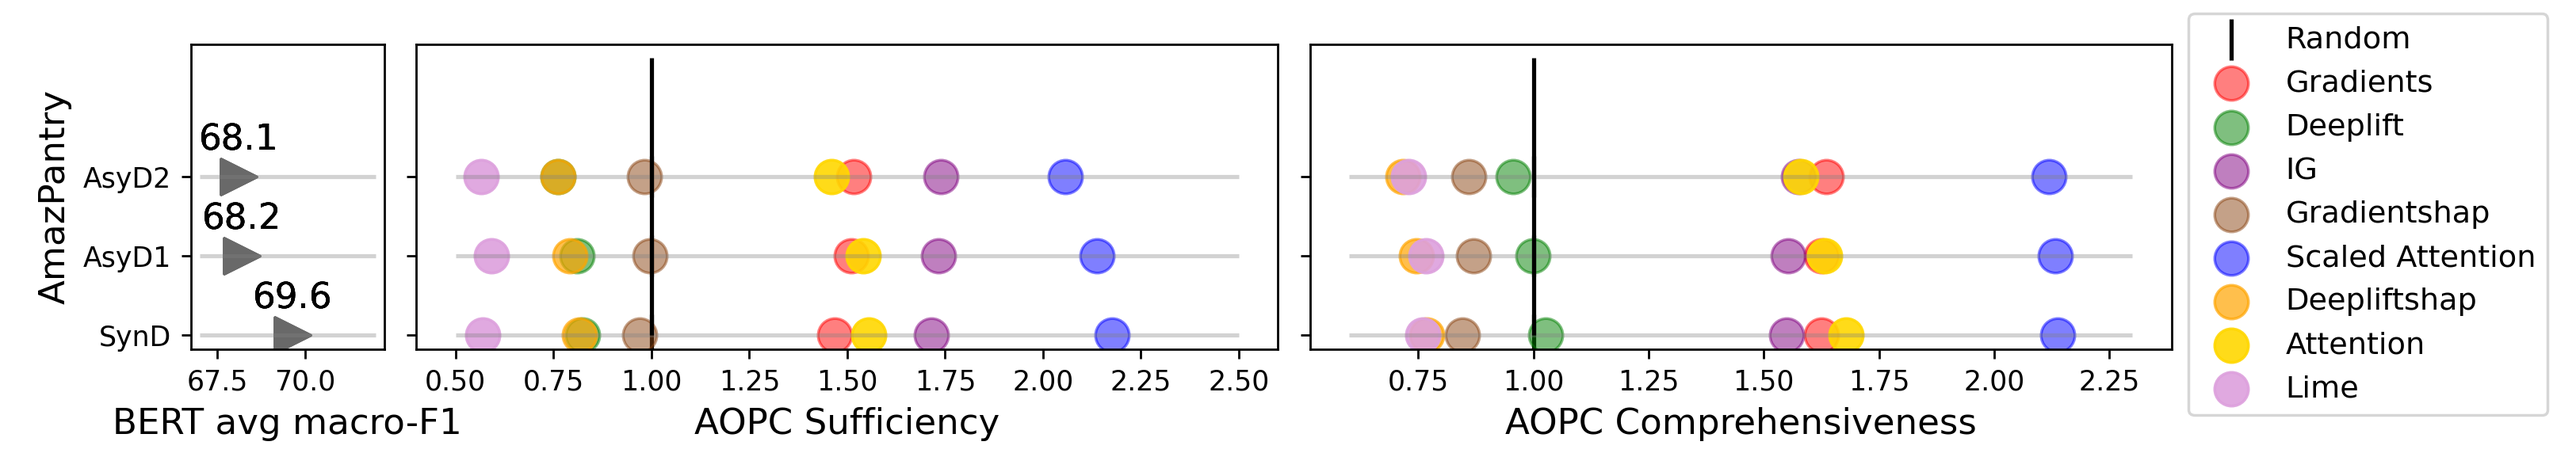
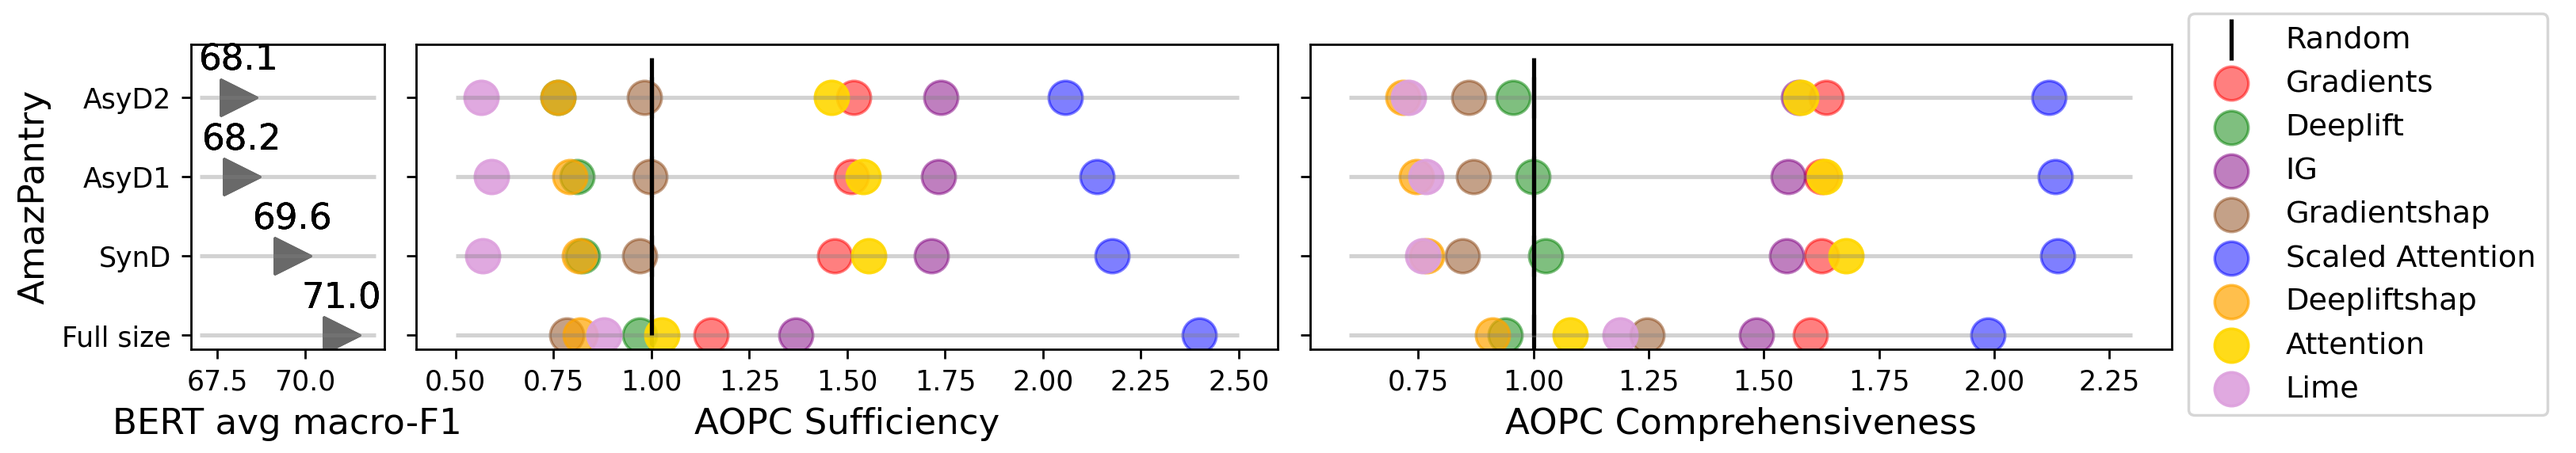
m

diff --git a/saved_everything/all_tasks_all_fresh.py b/saved_everything/all_tasks_all_fresh.py
@@ -1,3 +1,4 @@
+from turtle import color
 import pandas as pd
 from functools import reduce
 import numpy as np
@@ -42,7 +43,7 @@ for i, name in enumerate(task_list):
     bert_path = './' + str(name) + '/bert_predictive.csv'
     bert = pd.read_csv(bert_path)[['mean-f1', 'Domain']]
     bert = bert.rename(columns={'mean-f1':'BERT'})
-    bert['Domain'] = ['Full', 'SynD', 'AsyD1', 'AsyD2']   
+    bert['Domain'] = ['Full size', 'SynD', 'AsyD1', 'AsyD2']   
 
     df = pd.read_csv(path)
     df = df[['mean-f1','Domain','attribute_name']]
@@ -51,12 +52,8 @@ for i, name in enumerate(task_list):
     #print(df)
     grouper = df.groupby('attribute_name')
     df = pd.concat([pd.Series(v['mean-f1'].tolist(), name=k) for k, v in grouper], axis=1)
-<<<<<<< HEAD
-    df['Domain'] = ['Full', 'SynD', 'AsyD1', 'AsyD2']   
-    df['BERT'] = bert['BERT']
-=======
-    df['Domain'] = ['Full size', 'SynD', 'AsyD1', 'AsyD2']   
->>>>>>> 87ae2bf5fd48f30f143ad1fdf23999e3239a494c
+    df['Domain'] = ['Full size', 'SynD', 'AsyD1', 'AsyD2']
+    df['BERT'] = bert['BERT']  
     print(df)
 
     if i == 3 or i == 4:
@@ -66,10 +63,10 @@ for i, name in enumerate(task_list):
 
 
     if i < 2:
-        axs[0, i].scatter(df['Domain'], df['gradients'], label='Gradients') #, marker='x', s=makersize
-        axs[0, i].scatter(df['Domain'], df['deeplift'], label='Deeplift', marker='d')
-        axs[0, i].scatter(df['Domain'], df['scaled attention'], label='Scaled attention', marker='x')
-        axs[0, i].scatter(df['Domain'], df['BERT'], label='BERT', marker='<')
+        axs[0, i].scatter(df['Domain'], df['gradients'], label='Gradients', color='dimgrey') #, marker='x', s=makersize
+        axs[0, i].scatter(df['Domain'], df['deeplift'], label='Deeplift', marker='d', color='darkorange')
+        axs[0, i].scatter(df['Domain'], df['scaled attention'], label='Scaled attention', marker='<', color='steelblue')
+        axs[0, i].scatter(df['Domain'], df['BERT'], label='BERT', marker='x', color='red')
         axs[0, i].set_xlabel(SUB_NAME,fontsize=xlabel_size)
     # elif i > 3:
     #     axs[2, i-4].scatter(df['Domain'], df['Bert F1'], label='BERT', marker='x', s=makersize)
@@ -79,10 +76,10 @@ for i, name in enumerate(task_list):
     #     axs[2, i-4].scatter(df['Domain'], df['LSTM F1'], label='LSTM')
     #     axs[2, i-4].set_xlabel(SUB_NAME,fontsize=xlabel_size)
     else:
-        axs[1, i-2].scatter(df['Domain'], df['gradients'], label='Gradients')
-        axs[1, i-2].scatter(df['Domain'], df['deeplift'], label='Deeplift', marker='d')
-        axs[1, i-2].scatter(df['Domain'], df['scaled attention'], label='Scaled attention', marker='x')
-        axs[1, i-2].scatter(df['Domain'], df['BERT'], label='BERT', marker='<')
+        axs[1, i-2].scatter(df['Domain'], df['gradients'], label='Gradients', color='dimgrey')
+        axs[1, i-2].scatter(df['Domain'], df['deeplift'], label='Deeplift', marker='d', color='darkorange')
+        axs[1, i-2].scatter(df['Domain'], df['scaled attention'], label='Scaled attention', marker='<', color='steelblue')
+        axs[1, i-2].scatter(df['Domain'], df['BERT'], label='BERT', marker='x', color='red')
         axs[1, i-2].set_xlabel(SUB_NAME,fontsize=xlabel_size)
     
 #fig.suptitle('Predictive Performance Comparison of Selective Rationalizations', fontsize=12)
